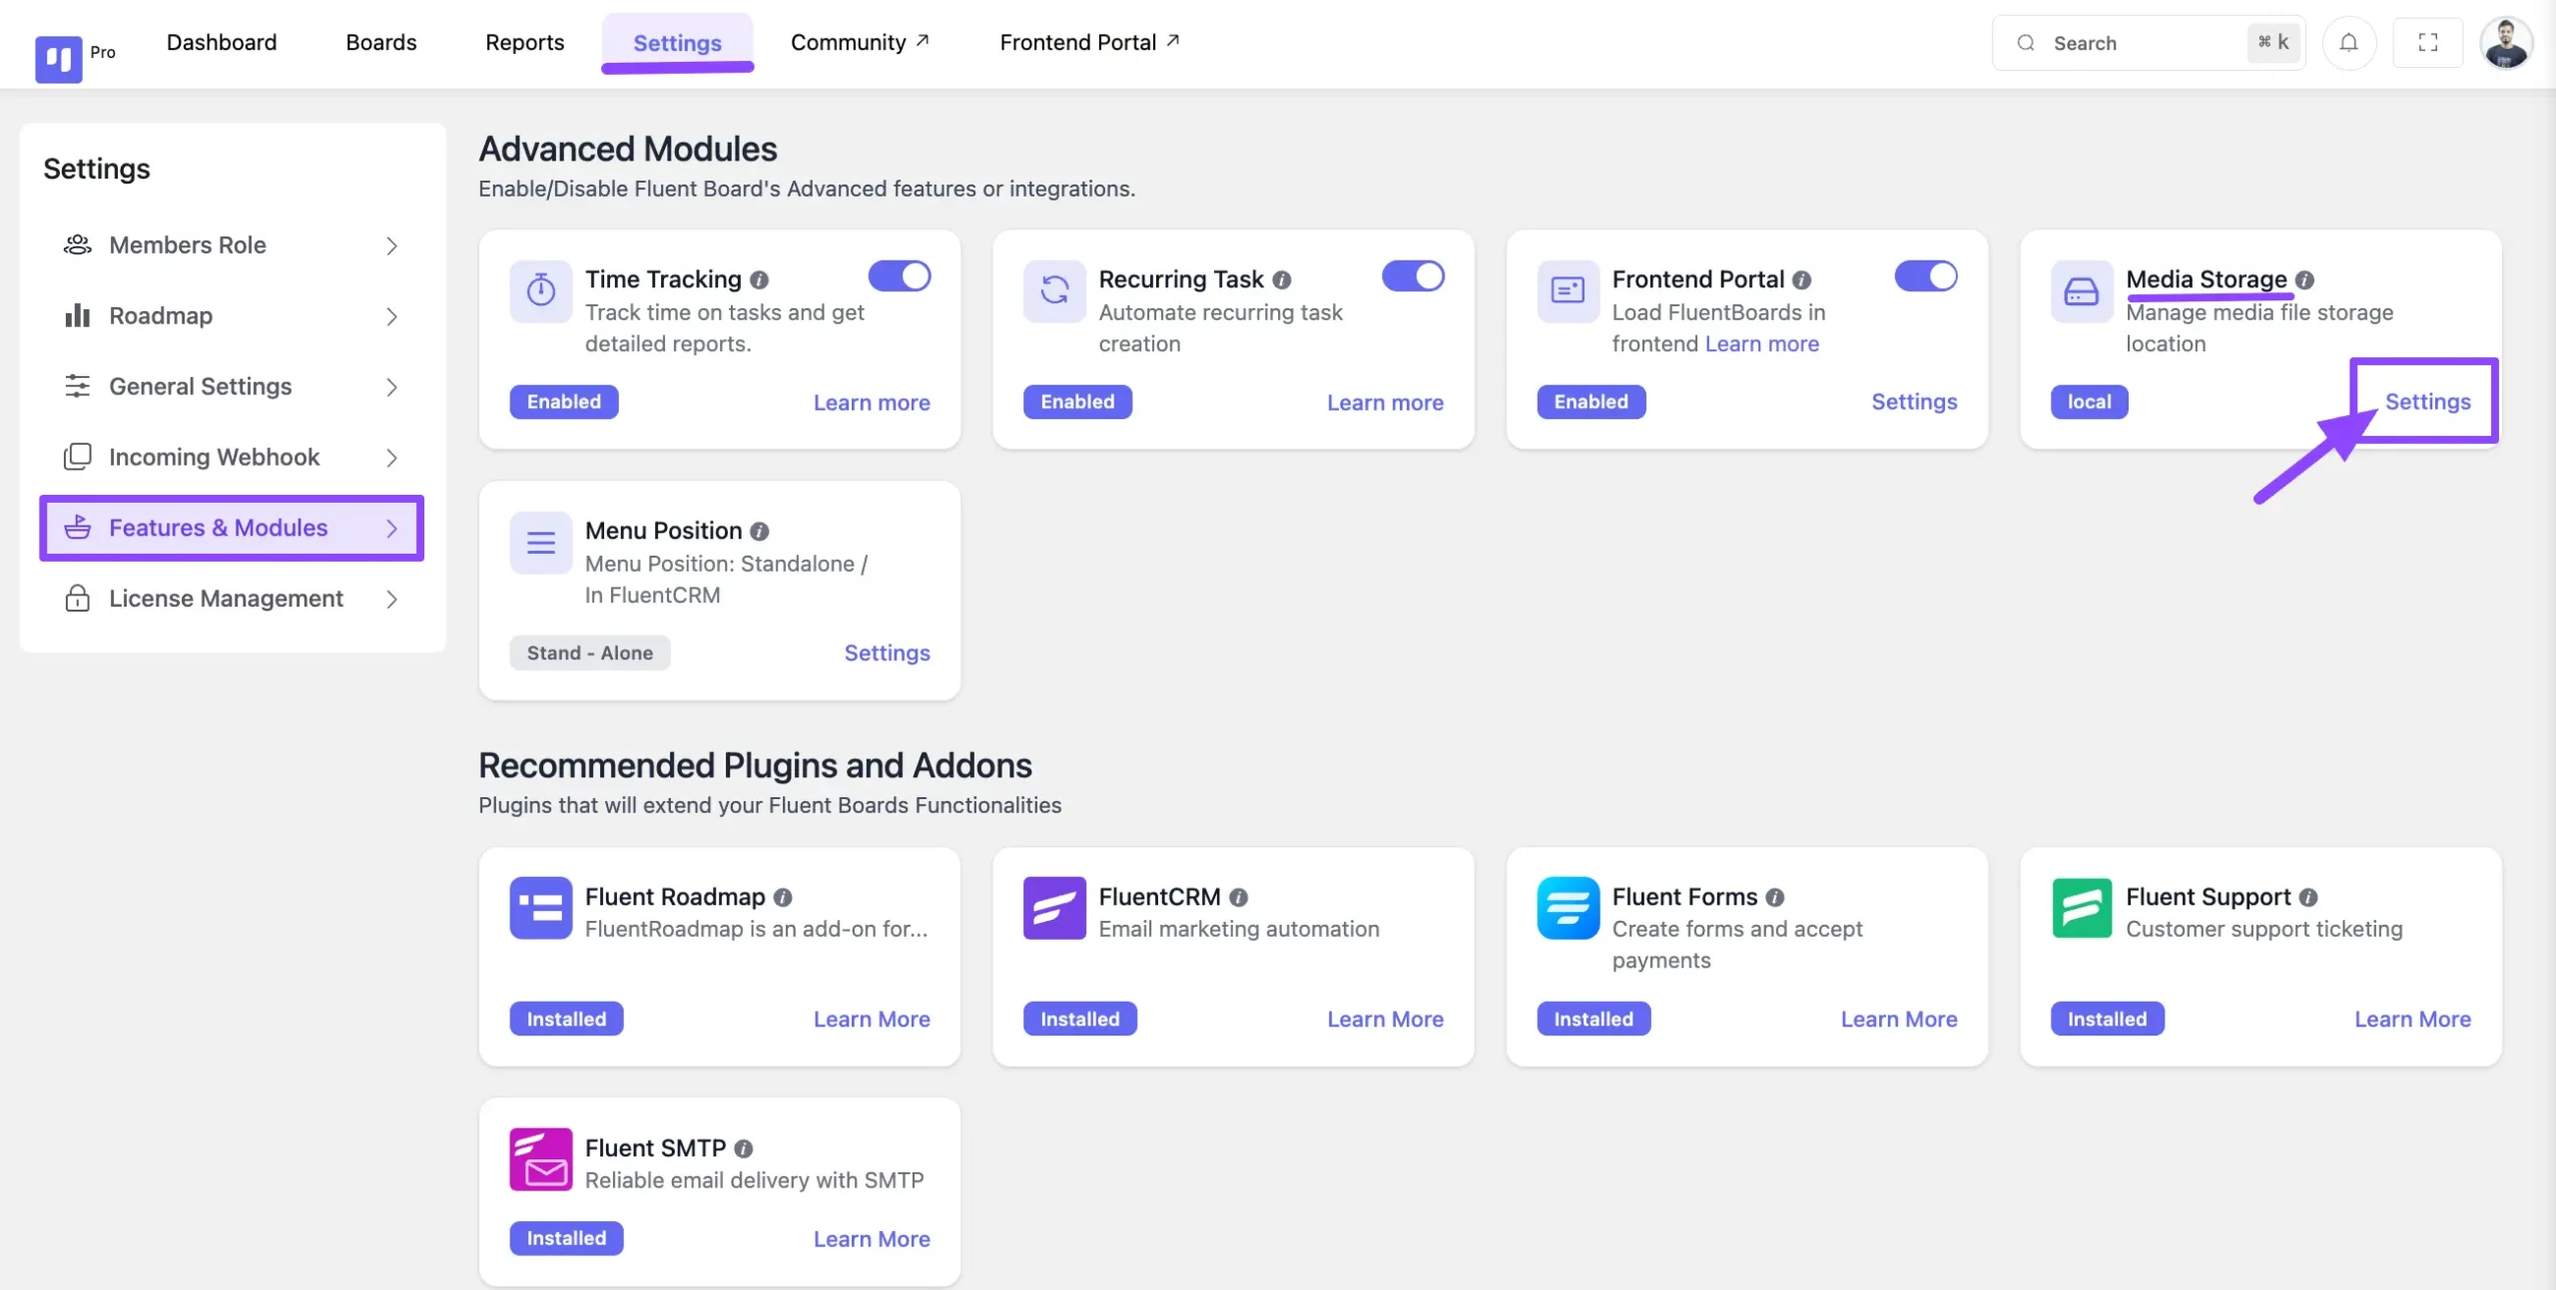
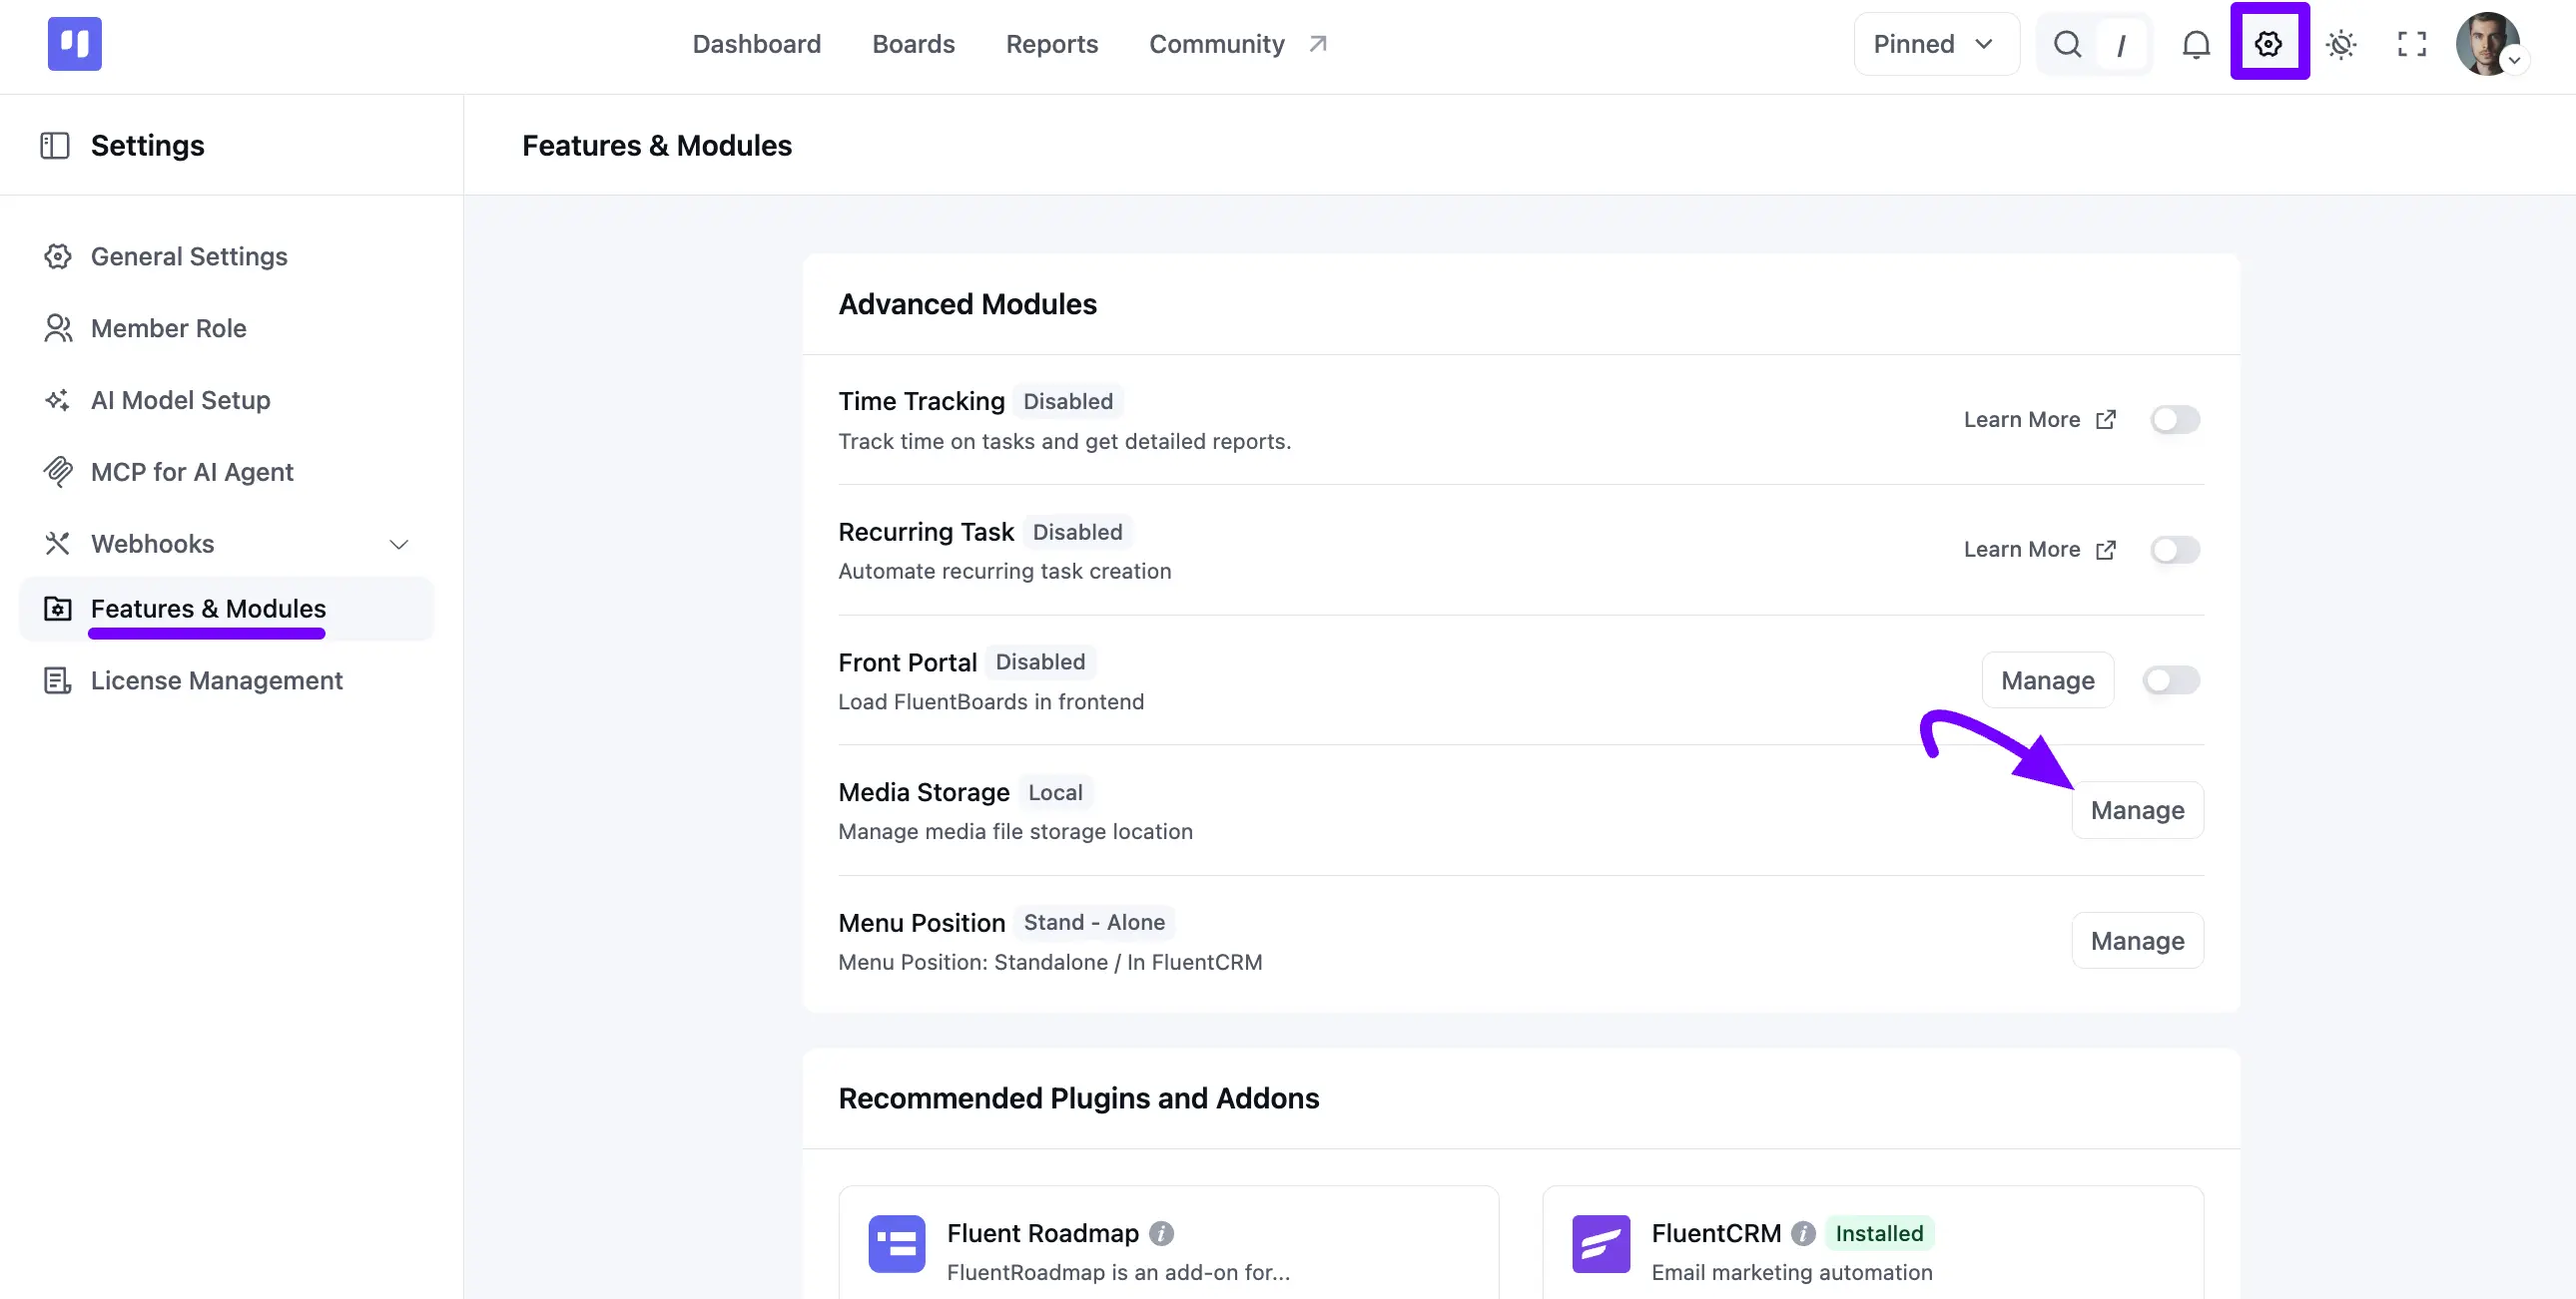
update FluentBoards Integration with Amazon S3

diff --git a/docs/integrations/fluentboards-integration-with-amazon-s3.md b/docs/integrations/fluentboards-integration-with-amazon-s3.md
@@ -98,19 +98,19 @@ There are two ways to configure FluentBoards with Amazon S3: **Using the plugin 
 
 ### Using the Plugin UI
 
-Go to FluentBoards dashboards **Settings** tab from the top menu. Click the **Feature & Modules** section from the left side bar. Now find the **Media Storage** and click the **Settings**.
+Go to FluentBoards dashboards **Settings** tab from the top menu. Click the **Features & Modules** section from the left side bar. Now find the **Media Storage** option and click the **Manage** button.
 
 ![media storage 15](../public/images/integrations/fluentboards-integration-with-amazon-s3/Media-Storage-15-scaled.webp)
 
-After that, a popup will appear here. Now, select **Amazon S3** and paste the credentials you collected from your Amazon AWS account:
+A **Configure Media Storage** pop-up will appear. Select **Amazon S3** from the **Storage Location** dropdown, then paste the credentials you collected from your Amazon AWS account:
 
 - **Amazon S3 Region:** Select the region from the dropdown that matches the one you used when creating your bucket.
 - **Amazon S3 Access Key:** Paste the Access Key from the IAM User.
 - **Amazon S3 Secret Key:** Paste the Secret Key from the IAM User.
 - **Amazon S3 Bucket Name:** Enter the Bucket Name you created in Amazon S3.
-- **Bucket Sub Folder (Optional):** If you created a subfolder for file uploads, provide its name. Otherwise, leave it empty.
+- **Bucket Sub-Folder (Optional):** If you want to store files in a specific folder within the bucket, provide its name here. Otherwise, leave it empty.
 
-Finally, click the **Save Settings** button. Your Amazon S3 will now be successfully connected with FluentBoards, and all media files will be stored in Amazon S3.
+Finally, click the **Save** button. Your Amazon S3 will now be successfully connected with FluentBoards, and all media files will be stored in Amazon S3.
 
 ![using the plugin ui 16](../public/images/integrations/fluentboards-integration-with-amazon-s3/using-the-plugin-ui-16-scaled.webp)
 
